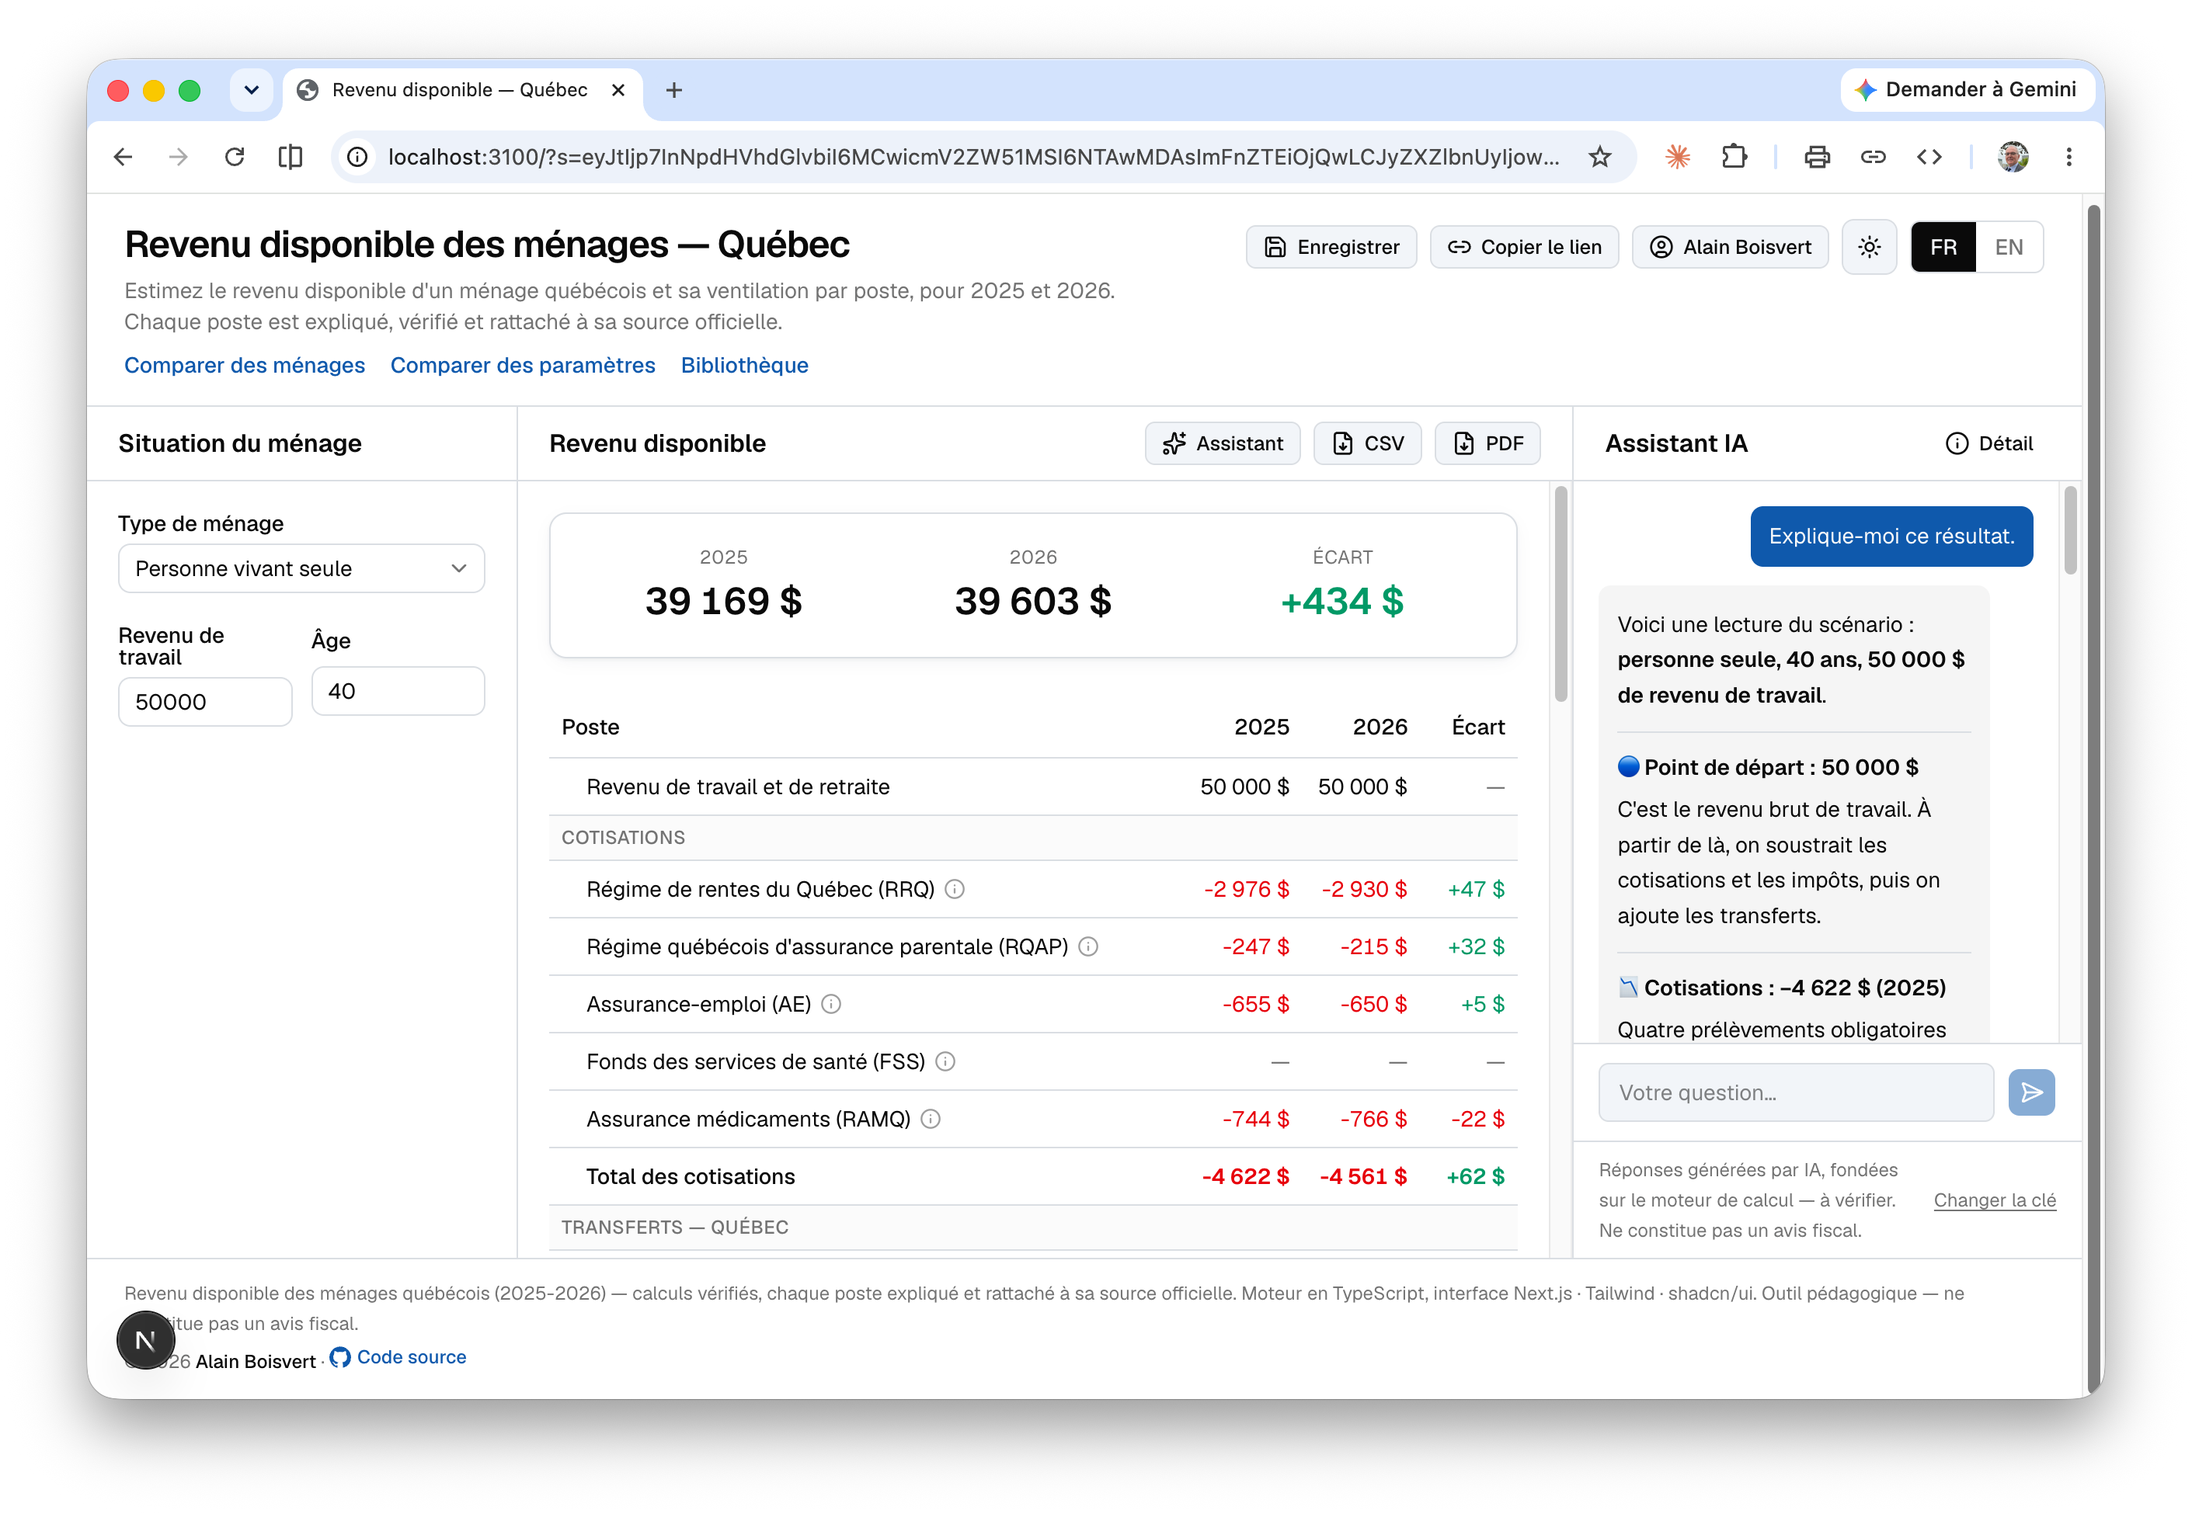
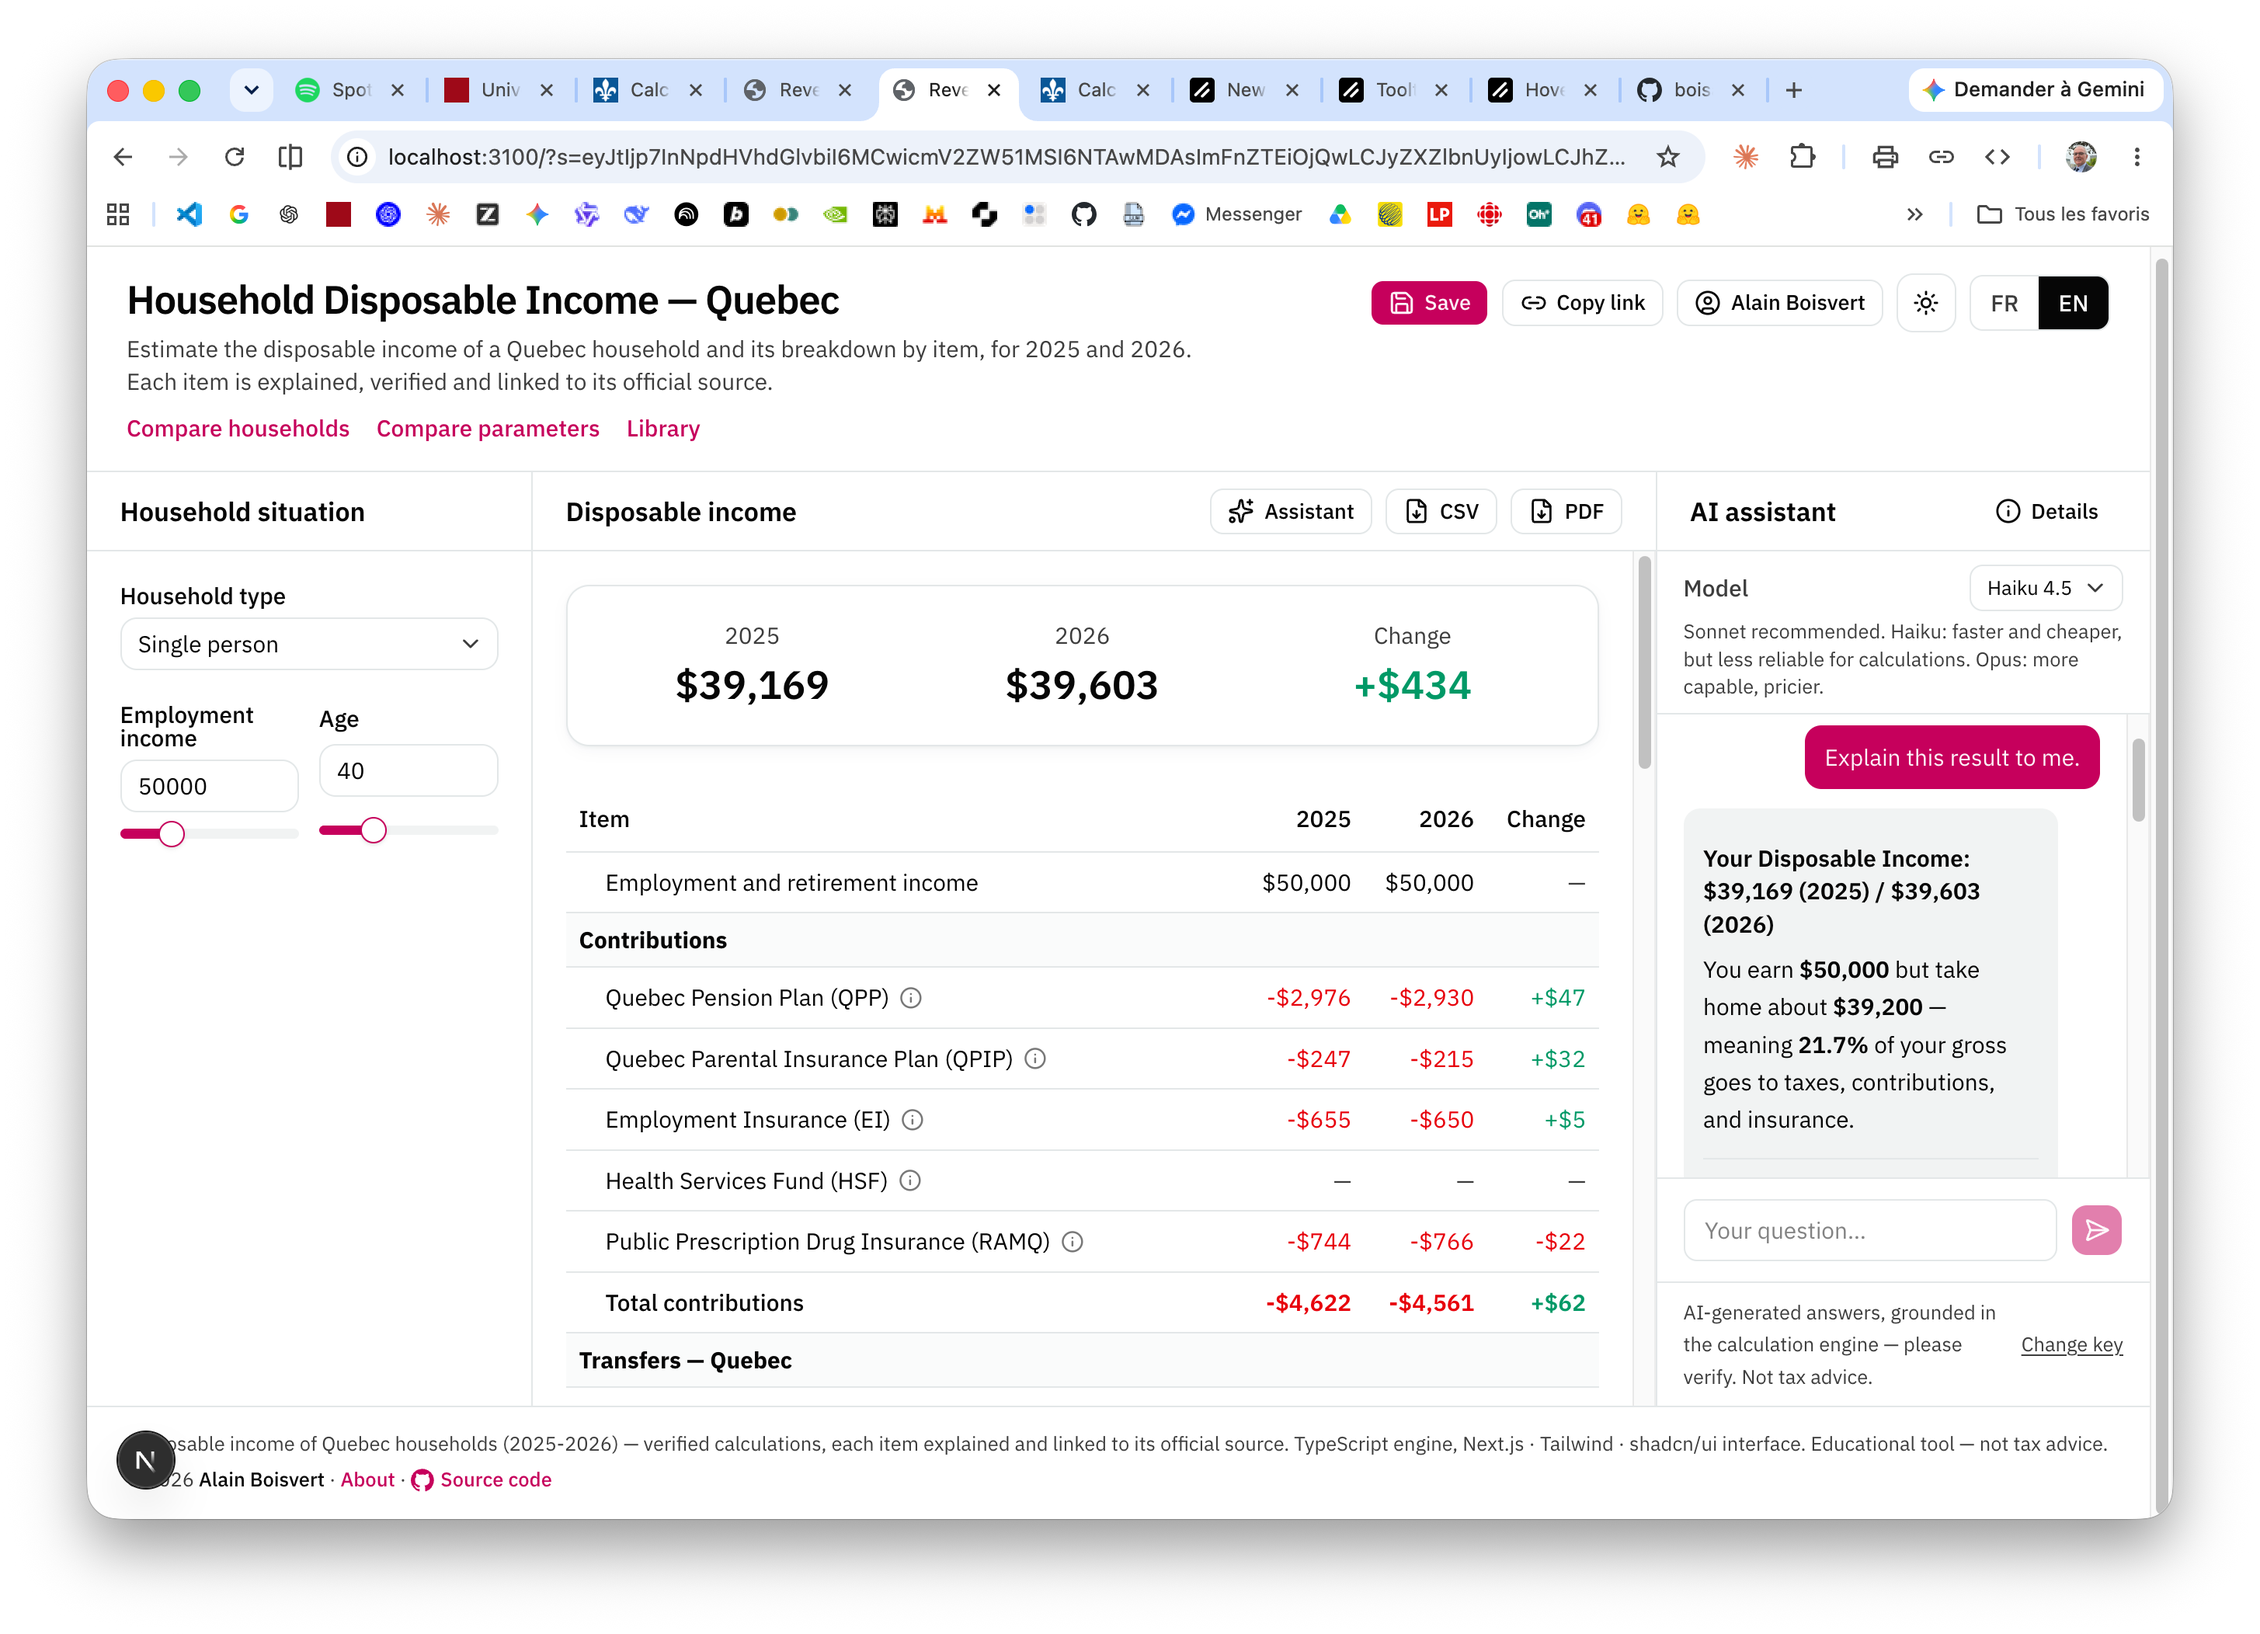
docs(readme): réécriture en langage accessible (citoyen + étudiant en fiscalité)
Intro orientée citoyen, section « En clair », audiences citoyen + étudiant
(retrait de l'angle « firme de conseil IA » et du jargon technique). Fonctionnalités
actualisées (assistant IA en ligne, paramètres dans le panneau). « D'où viennent les
chiffres » remplace la note de méthode ; lien vers le calculateur officiel du MFQ.
Met aussi à jour la capture d'écran (nouveau thème + assistant IA).

diff --git a/README.md b/README.md
@@ -1,80 +1,66 @@
 # Revenu disponible — Québec (2025 · 2026)
 
-**Moteur de calcul vérifié et application web pédagogique** autour du **revenu disponible** d'un ménage québécois : ce qu'il lui reste une fois additionnés ses revenus et ses transferts, puis retranchés ses cotisations sociales et ses impôts. L'outil en montre la **ventilation poste par poste**, pour les années **2025 et 2026**, et la rend **explorable et explicable**.
+Combien vous reste-t-il **vraiment**, une fois payés vos impôts et vos cotisations, et une fois reçus vos transferts (allocations et crédits) ? Ce calculateur répond à la question pour un **ménage québécois** et vous en montre le **détail, ligne par ligne**, pour **2025 et 2026**.
 
-**▶ En ligne : https://revenu-disponible.vercel.app/**
+**▶ Essayez-le : https://revenu-disponible.vercel.app/**
 
-![Le calculateur : formulaire du ménage (gauche), ventilation poste par poste 2025 vs 2026 (centre) et panneau d'explication (droite)](docs/calculateur.png)
+![Le calculateur : la situation du ménage à gauche, le détail poste par poste 2025 vs 2026 au centre, et l'explication d'un poste à droite](docs/calculateur.png)
 
-Le projet réunit deux briques :
+## En clair
 
-- **Un moteur** en **TypeScript strict, sans dépendance externe**, qui calcule avec précision la vingtaine de postes socio-fiscaux composant le revenu disponible : cotisations (RRQ, RQAP, assurance-emploi, FSS, assurance médicaments), transferts du Québec (allocation famille, crédit pour la solidarité, prime au travail, frais de garde…), impôt du Québec, transferts fédéraux (Allocation canadienne pour enfants, crédit pour la TPS/TVH, Allocation canadienne pour les travailleurs…), impôt fédéral, et coût des frais de garde.
-- **Une application web** bilingue (français / anglais) qui rend ces calculs lisibles, comparables et pédagogiques.
+Votre **revenu disponible**, c'est ce qui finit dans vos poches :
 
-## À qui s'adresse ce projet
+> revenus de travail et de retraite **+** transferts (allocations, crédits) **−** cotisations (RRQ, assurance-emploi…) **−** impôts
 
-**Étudiant·e en fiscalité** — voir concrètement comment s'emboîtent impôts, cotisations et transferts pour un ménage donné ; comprendre les **taux marginaux implicites** et les **trappes à la pauvreté** ; tester « et si ? » en modifiant les paramètres comme l'annonce d'un budget. Chaque poste s'accompagne de sa **règle de calcul**, de ses **références légales** et d'un **lien vers la source officielle**.
+Le calculateur fait cette addition pour vous, **poste par poste**, et explique chaque montant. Tout repose sur des **cas de ménages types** et des **données fictives** : c'est un outil pour *comprendre*, pas pour remplir votre déclaration.
 
-**Firme de conseil en intelligence artificielle** — un cas concret de **domaine réglementaire modélisé proprement** : moteur entièrement typé, **vérifié par parité** (suite de centaines d'assertions), **paramétrable**, et donc une **surface d'outils fiable pour une couche d'IA** (*function calling* sur des calculs déterministes plutôt que sur des approximations). Architecture moderne, calcul côté client, déploiement continu. C'est le socle sur lequel se greffe la suite — voir *Feuille de route*.
+## À qui ça s'adresse
 
-## Fonctionnalités actuelles
+**Au citoyen curieux** — voir ce qu'il vous reste réellement, et comment ça bouge si votre revenu, votre âge ou votre situation familiale changent. Comprendre pourquoi, à certains revenus, **un dollar de plus ne rapporte presque rien** (les fameuses « trappes »).
 
-- **Calcul du revenu disponible** pour 5 situations de ménage (personne seule, famille monoparentale, couple, retraité seul, couple de retraités), selon les revenus de travail et de retraite, l'âge, et les enfants (âge, frais de garde, service subventionné ou non).
-- **Comparaison 2025 vs 2026**, poste par poste, avec sous-totaux et écarts.
-- **Panneau d'explication** par poste : description, objectif, règle de calcul, références, lien vers la source officielle.
-- **Taux marginaux implicites** : un graphique montre, à chaque niveau de revenu, la part d'un dollar de travail supplémentaire qui n'aboutit *pas* au revenu disponible, avec repérage des **trappes à la pauvreté** (taux > 80 %).
-- **Comparer deux ménages** (à politique constante) ou **deux jeux de paramètres** sur un même ménage (simuler un changement de politique — un « mini-budget »).
-- **Bibliothèque** : enregistrer des **ménages types** et des **jeux de paramètres** réutilisables.
-- **Partage par URL**, **export CSV / PDF**, **comptes** (courriel ou Google) et **sauvegarde de scénarios**.
-- **Interface** : espace de travail à volets redimensionnables, mode clair / sombre, bilingue.
+**À l'étudiant·e en fiscalité** — voir concrètement comment s'emboîtent impôts, cotisations et transferts. Chaque poste vient avec sa **règle de calcul**, ses **références légales** et un **lien vers la source officielle**, et vous pouvez tester « et si… ? » en modifiant les paramètres, comme l'annonce d'un budget.
 
-## Architecture
+## Ce que vous pouvez faire
 
-| Couche | Choix |
+- **Calculer** le revenu disponible pour 5 situations (personne seule, famille monoparentale, couple, retraité seul, couple de retraités), selon le revenu, l'âge et les enfants.
+- **Comparer 2025 et 2026**, poste par poste, avec les écarts.
+- **Comprendre chaque poste** : un panneau donne sa description, son objectif, sa règle de calcul, ses **paramètres officiels (2025 / 2026)** et le lien vers la source.
+- **Voir le taux effectif marginal d'imposition** : un graphique montre, à chaque niveau de revenu, quelle part d'un dollar gagné en plus vous échappe, et repère les **trappes** (plus de 80 %).
+- **Comparer deux ménages**, ou **deux jeux de paramètres** sur un même ménage (simuler un « mini-budget »).
+- **Demander à un assistant IA** (Claude) d'expliquer un résultat ou de répondre à vos questions sur le modèle *(vous fournissez votre propre clé Anthropic)*.
+- **Enregistrer, partager par lien, exporter en CSV / PDF**, et conserver vos scénarios dans un compte.
+
+L'interface est **bilingue (français / anglais)** et offre un **mode clair / sombre**.
+
+## D'où viennent les chiffres
+
+Tous les chiffres — montants, taux et seuils — viennent de **sources officielles** : Revenu Québec, l'Agence du revenu du Canada, Retraite Québec et Service Canada. Chacun renvoie à la loi qui le fixe ; rien n'est inventé.
+
+Pour s'assurer que les calculs sont exacts, ils ont été **comparés au [calculateur officiel du ministère des Finances du Québec](https://www.finances.gouv.qc.ca/ministere/outils_services/outils_calcul/revenu_disponible/outil_revenu.asp)** : sur des milliers de cas, les résultats **correspondent au cent près**.
+
+## Sous le capot *(pour les curieux)*
+
+| | |
 | --- | --- |
-| Moteur | TypeScript strict, **aucune dépendance externe**, ~20 postes + orchestrateur (`calculerRevenuDisponible`) |
-| Paramétrage | Les fonctions acceptent une **année** (jeu officiel) **ou un bundle de paramètres** sur mesure → modélisation de changements de politique |
-| Tests | **Vitest** — vérification par parité (reproduction des maximums et points de contrôle officiels) |
-| Web | **Next.js 16** (App Router), **Tailwind 4**, **shadcn/ui**, react-resizable-panels, Recharts |
-| Comptes | **Better Auth** + **Prisma 7** + **PostgreSQL** (Neon) |
-| Déploiement | **Vercel**, en continu |
+| Moteur de calcul | TypeScript, une vingtaine de postes ; aucune dépendance externe ; vérifié par une suite de tests automatisés |
+| Application web | Next.js, Tailwind, shadcn/ui |
+| Comptes et sauvegarde | Better Auth + Prisma + PostgreSQL |
+| Hébergement | Vercel (mise en ligne continue) |
 
-Le **calcul reste 100 % côté client** ; le serveur ne sert qu'aux comptes et à la sauvegarde de scénarios.
-
-## Méthode et validation
-
-Le projet suit une règle stricte : **rien n'est posé « de mémoire ».**
-
-- Chaque paramètre est **confronté à la source officielle** (Revenu Québec, Agence du revenu du Canada, Retraite Québec, Service Canada) et **rattaché à sa disposition légale**.
-- **Les calculs ont été validés par parité avec le calculateur du revenu disponible du ministère des Finances du Québec** : la suite de tests reproduit les maximums et points de contrôle officiels, au cent près.
-- Tout élément non confirmé reste explicitement marqué à vérifier ; la suite de tests n'est jamais affaiblie pour la « faire passer ».
-
-## Feuille de route
-
-**Couche d'intelligence artificielle** — le prochain grand chantier, et le plus naturel vu le socle déterministe :
-
-- **Assistant (Claude)** : poser des questions sur le modèle (« pourquoi mon taux marginal grimpe-t-il vers 13 000 $ ? »), **faire expliquer un résultat** en langage clair, et **générer des scénarios** à partir d'une description (« un couple, deux enfants, 60 000 $ et 40 000 $ ») via des **appels d'outils** branchés sur le moteur et la bibliothèque.
-- **Rapport narratif** : export PDF enrichi d'une analyse rédigée.
-
-**Pédagogie et exploration** — modes débutant / expert, description des paramètres à l'édition, activation / désactivation d'un poste, détail d'un calcul « reproductible à la calculatrice », taux marginaux par tranche fine.
-
-**Diffusion et confort** — page « À propos » et note méthodologique, aperçus de partage (Open Graph), historique de session, finition mobile.
-
-**Couverture** — extensions au-delà du modèle de base.
+Le **calcul se fait entièrement dans votre navigateur** ; le serveur ne sert qu'aux comptes et à la sauvegarde des scénarios.
 
 ## Développement
 
 ```bash
 npm install
 npm run dev        # http://localhost:3100
-npm test           # Vitest — vérification par parité
-npm run typecheck  # tsc --noEmit
+npm test           # tests (concordance au cent près)
 npm run build
 ```
 
 ## Avertissement
 
-Prototype **pédagogique** : les valeurs sont **indicatives** et **ne constituent pas un avis fiscal**. Les démonstrations n'utilisent que des **données fictives**.
+Outil **pédagogique** : les montants sont **indicatifs** et **ne constituent pas un avis fiscal**. Les exemples n'utilisent que des **données fictives**.
 
 ---
 
